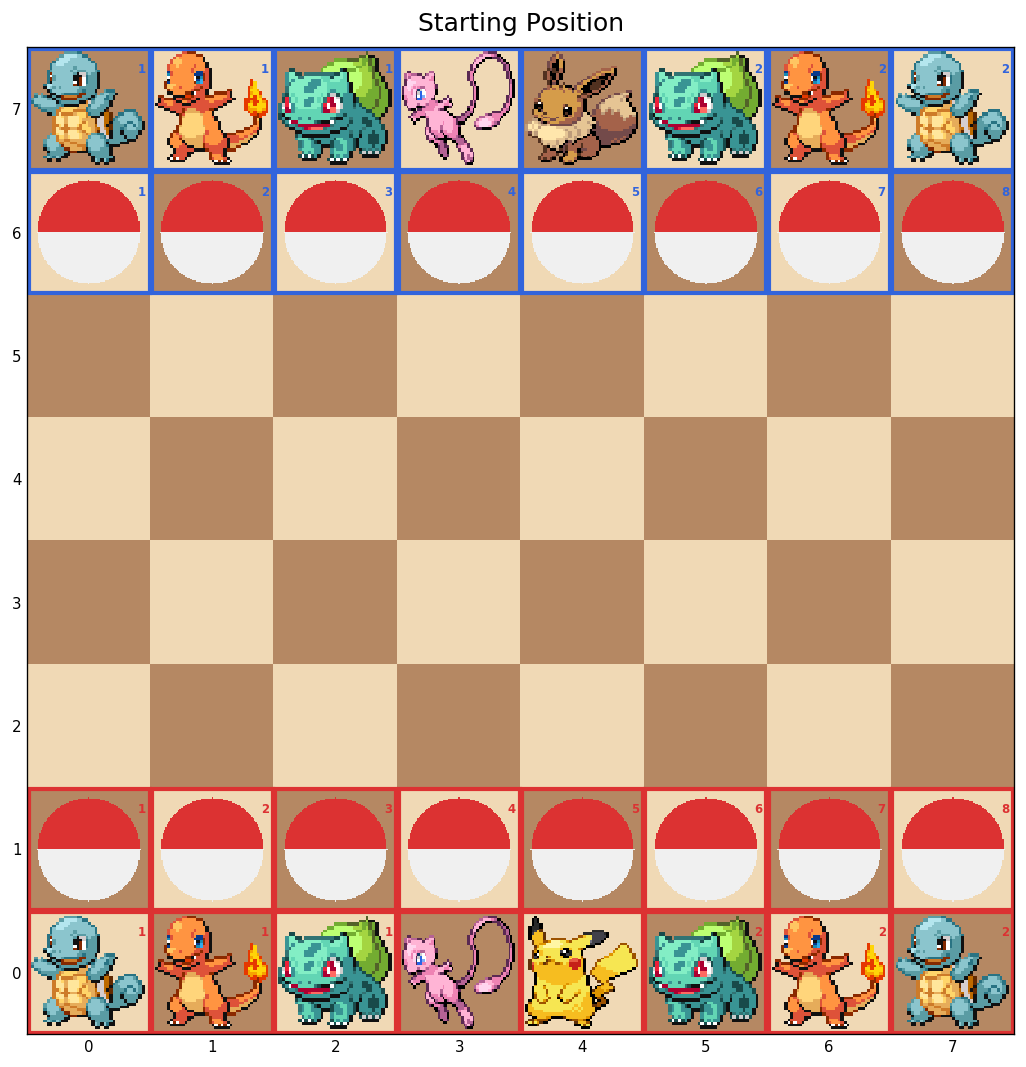
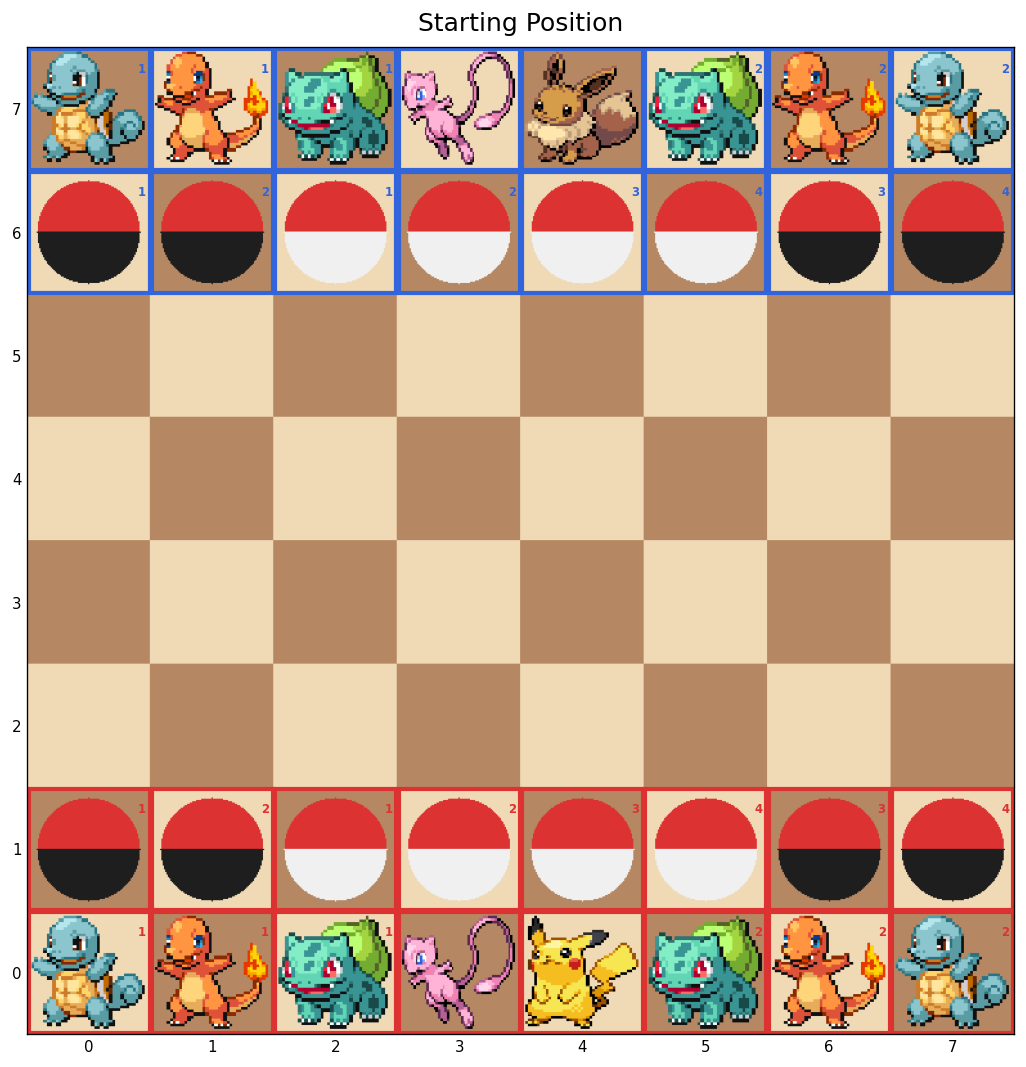
Update README and board preview for current game state
- Regenerate board_preview.png showing Stealballs (black bottom) on outer
  cols and Safetyballs (white bottom) on middle cols
- Update gen_board_preview.py to handle SAFETYBALL/MASTER_SAFETYBALL types
  with correct colors and M label
- Rewrite README rules to reflect current mechanics: Safetyball storage,
  Raichu/Jolteon 2-square cardinal slides, Pikachu-only stealball immunity,
  Quick Attack attack-then-move semantics, pawn trade restriction, promotion

diff --git a/demo/gen_board_preview.py b/demo/gen_board_preview.py
@@ -24,6 +24,7 @@ _POKEMON_DEX = {
     PieceType.EEVEE: 133, PieceType.VAPOREON: 134, PieceType.FLAREON: 136,
     PieceType.LEAFEON: 470, PieceType.JOLTEON: 135, PieceType.ESPEON: 196,
     PieceType.POKEBALL: None, PieceType.MASTERBALL: None,
+    PieceType.SAFETYBALL: None, PieceType.MASTER_SAFETYBALL: None,
 }
 _cache = {}
 
@@ -34,14 +35,14 @@ def _fetch_sprite(pt):
     if dex is None:
         img = np.zeros((SPRITE_SIZE, SPRITE_SIZE, 4), dtype=np.uint8)
         cx = cy = SPRITE_SIZE // 2; r = SPRITE_SIZE // 2 - 4
+        is_master  = pt in (PieceType.MASTERBALL, PieceType.MASTER_SAFETYBALL)
+        is_safety  = pt in (PieceType.SAFETYBALL, PieceType.MASTER_SAFETYBALL)
+        top_col    = [130, 50, 220, 255] if is_master else [220, 50, 50, 255]
+        bot_col    = [240, 240, 240, 255] if is_safety else [30, 30, 30, 255]
         for y in range(SPRITE_SIZE):
             for x in range(SPRITE_SIZE):
                 if (x-cx)**2 + (y-cy)**2 <= r**2:
-                    top = y < cy
-                    if pt == PieceType.MASTERBALL:
-                        img[y,x] = [130,50,220,255] if top else [240,240,240,255]
-                    else:
-                        img[y,x] = [220,50,50,255] if top else [240,240,240,255]
+                    img[y,x] = top_col if y < cy else bot_col
         _cache[pt] = img; return img
     path = os.path.join(SPRITE_DIR, f'{dex}.png')
     if not os.path.exists(path):
@@ -103,10 +104,10 @@ def _render(state, ax, title='Starting Position'):
             if totals.get(key,1) > 1:
                 ax.text(c*CELL+CELL-4,(7-r)*CELL+12, str(indices[(r,c)]),
                         fontsize=7, fontweight='bold', color=ec, ha='right', va='top')
-            if p.piece_type == PieceType.MASTERBALL:
+            if p.piece_type in (PieceType.MASTERBALL, PieceType.MASTER_SAFETYBALL):
                 ax.text(c*CELL+CELL//2, (7-r)*CELL+int(CELL*0.36), 'M',
                         fontsize=int(CELL*0.28), fontweight='bold',
-                        color='black', ha='center', va='center')
+                        color='white', ha='center', va='center')
     ax.set_xticks([c*CELL+CELL//2 for c in range(8)])
     ax.set_yticks([(7-r)*CELL+CELL//2 for r in range(8)])
     ax.set_xticklabels(range(8), fontsize=9)

diff --git a/README.md b/README.md
@@ -10,17 +10,18 @@ A hybrid chess / Pokémon battle game. Two players command teams of Pokémon on 
 
 ## Try the Demo
 
-Open **`demo/pokechess_demo.ipynb`** in Jupyter for an interactive walkthrough of all game mechanics: board layout, movement patterns, type-matchup combat, evolution, Foresight, stochastic Pokéball captures, and a fully **playable game** at the end.
+Open **`demo/pokechess_demo.ipynb`** in Jupyter for an interactive walkthrough of all game mechanics.
 
 ```bash
 pip install -r requirements.txt
 jupyter notebook demo/pokechess_demo.ipynb
 ```
 
-The playable section (Section 12) requires `ipympl` for click-to-move interaction:
+Or play against the MCTS bot directly:
 
 ```bash
-pip install ipympl
+python pokechess_ui.py
+python pokechess_ui.py --budget 2.0   # slower, stronger bot
 ```
 
 ---
@@ -31,34 +32,67 @@ pip install ipympl
 
 | Piece | Chess Role | Type | HP | Special |
 |---|---|---|---|---|
-| **Pikachu** | Red King | Electric | 200 | Immune to Pokéballs; evolves into Raichu |
-| **Eevee** | Blue King | Normal | 120 | Quick Attack (move + attack same turn); evolves into 5 forms |
+| **Pikachu** | Red King | Electric | 200 | Immune to Stealballs; evolves into Raichu (costs a turn) |
+| **Raichu** | Red King (evolved) | Electric | 250 | King moves + Pikachu L-jumps + 2-square cardinal slides; 50% capture rate |
+| **Eevee** | Blue King | Normal | 120 | Quick Attack (attack then move same turn); evolves into 5 forms |
 | **Mew** | Queen | Psychic | 250 | 3 typed attacks (Fire Blast / Hydro Pump / Solar Beam) + Foresight |
 | **Squirtle** | Rook | Water | 200 | Slides along ranks and files |
-| **Charmander** | Knight | Fire | 160 | L-shaped jumps; leaps over pieces |
-| **Bulbasaur** | Bishop | Grass | 160 | Slides diagonally |
-| **Pokéball** | Pawn | — | — | 50 % capture chance on attack |
-| **Masterball** | Promoted Pawn | — | — | Guaranteed capture; Pokéball promotes here |
+| **Charmander** | Knight | Fire | 200 | L-shaped jumps; leaps over pieces |
+| **Bulbasaur** | Bishop | Grass | 200 | Slides diagonally |
+| **Stealball** | Pawn (outer) | — | — | 50% capture on attack; immune to counter-capture; cannot hold items |
+| **Master Stealball** | Promoted Stealball | — | — | Guaranteed capture; cannot hold items |
+| **Safetyball** | Pawn (middle) | — | — | Stores and heals injured allies; immune to all attacks; cannot hold items |
+| **Master Safetyball** | Promoted Safetyball | — | — | Heals stored ally at twice the rate |
 
-### Key Differences from Standard Chess
+**Eevee evolutions** (each 220 HP):
 
-**HP and non-lethal attacks** — Pieces are not immediately removed on contact. An attacker stays put when the hit is non-lethal; the target only leaves the board when its HP reaches 0.
+| Evolution | Type | Movement |
+|---|---|---|
+| Vaporeon | Water | King + full rook sliding |
+| Flareon | Fire | King + extended knight jumps |
+| Leafeon | Grass | King + extended knight jumps |
+| Jolteon | Electric | King + L-jumps + 2-square cardinal slides (same as Raichu) |
+| Espeon | Psychic | King + full queen sliding + Foresight |
 
-**Type matchups** — Every attack has a type. Water beats Fire, Fire beats Grass, Grass beats Water (2× / 0.5× damage). Same-type and off-triangle matchups deal 1×. Picking the right type often decides a fight.
+---
 
-**Stochastic captures** — Regular Pokéball attacks have a **50 %** chance to capture the target and a 50 % chance to fail (the target survives, full HP, and the Pokéball stays put). Masterballs always capture. Pikachu and Raichu are immune to all Pokéball capture attempts.
+### Starting Layout
 
-**Evolution** — Kings can evolve mid-game at the cost of a turn. Pikachu evolves into Raichu. Eevee evolves into one of five forms (Vaporeon, Flareon, Leafeon, Jolteon, Espeon) depending on which item it holds. Evolution restores HP equal to the difference in max HP between forms.
+The pawn row is split by function:
+- **Outer 4 columns (0, 1, 6, 7)** — Stealballs (red/purple top, black bottom)
+- **Middle 4 columns (2, 3, 4, 5)** — Safetyballs (red/purple top, white bottom)
 
-**Foresight** — Mew and Espeon can schedule a delayed attack targeting any square in their movement range. The damage resolves at the start of their *next* turn. Foresight cannot be used on consecutive turns.
+RED moves first.
 
-**Free item trades** — Any piece can swap its held item with an adjacent teammate as a free action that does *not* end the turn. Trading an evolution stone to Eevee triggers an immediate auto-evolution and does consume the turn.
+---
+
+### Key Rules
+
+**HP and non-lethal attacks** — Pieces are not immediately removed on contact. The attacker stays put when a hit is non-lethal; a piece only leaves the board when its HP reaches 0.
+
+**Type matchups** — Water beats Fire, Fire beats Grass, Grass beats Water (2× / 0.5× damage). Same-type matchups deal 0.5×. All other matchups deal 1×.
+
+**Stealballs (capture pawns)** — A Stealball attack has a **50%** chance to capture the target (both pieces removed) and 50% to fail (target survives at full HP, Stealball is spent). Master Stealballs always capture. Pikachu is immune to Stealball capture; Raichu is not. Stealballs cannot target other pawns or Pikachu.
+
+**Safetyballs (defensive pawns)** — A Safetyball can move onto an **injured allied** Pokémon to store it inside. While stored, the Pokémon is protected from all attacks and heals ¼ of its max HP each turn the Safetyball moves (½ for Master Safetyball). The stored Pokémon is auto-released at full HP, or can be released manually. Safetyballs cannot store Pikachu, and at least one other allied piece must remain on the board.
+
+**Pawn promotion** — A Stealball reaching the back rank becomes a Master Stealball. A Safetyball reaching the back rank becomes a Master Safetyball.
+
+**Evolution** — Kings evolve mid-game at the cost of a turn. Pikachu evolves into Raichu (gaining HP and 2-square cardinal slides). Eevee evolves into one of five forms depending on its held item. Evolution restores HP equal to the difference in max HP between forms.
+
+**Quick Attack (Eevee)** — Attack first, then move. If the attack KOs the target, Eevee's movement starts from the vacated square. If the target survives, Eevee moves from its original square.
+
+**Foresight (Mew / Espeon)** — Schedule a delayed attack on any square in movement range. Damage resolves at the start of the caster's next turn. Cannot be used on consecutive turns.
+
+**Item trades** — Any non-pawn piece can swap its held item with an adjacent teammate as a free action that does *not* end the turn. Trading an evolution stone to Eevee triggers an immediate auto-evolution and does end the turn. Pawns of any kind cannot hold or trade items.
 
 **No en passant. No castling.**
 
+---
+
 ### Win Condition
 
-Eliminate the opposing king. If both kings are eliminated on the same turn, the game is a draw. In timed play, the team with higher total HP wins (Pokéball = 50, Masterball = 200, all others = current HP).
+Eliminate the opposing king. If both kings are eliminated on the same turn, the game is a draw. In timed play, the team with higher total HP wins (Stealball = 50, Master Stealball = 200, all others = current HP; stored Pokémon HP counts).
 
 ---
 
@@ -68,8 +102,9 @@ Eliminate the opposing king. If both kings are eliminated on the same turn, the 
 engine/     Core game logic — GameState, move generation, rule execution
 bot/        MCTS bot — pure Monte Carlo, no neural network required
 tests/      pytest test suite
-demo/       Jupyter demo notebook + sprite cache
+demo/       Board preview image + sprite assets
 docs/       Rules PDF and piece-movement reference diagrams
+scripts/    Benchmark utilities
 cpp/        C++ hot-loop port via pybind11 (phase 3)
 ```
 
